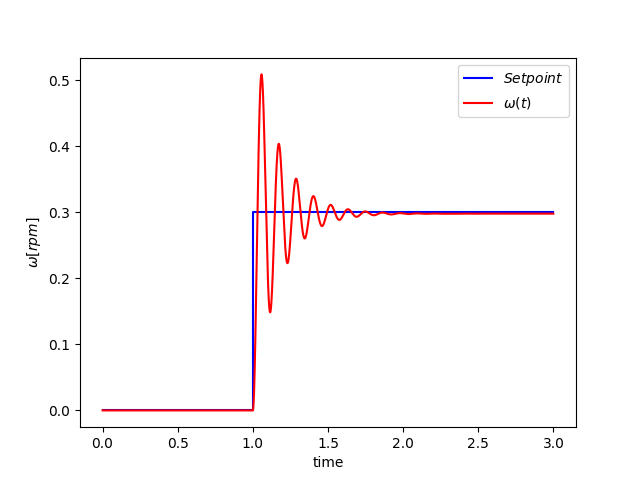
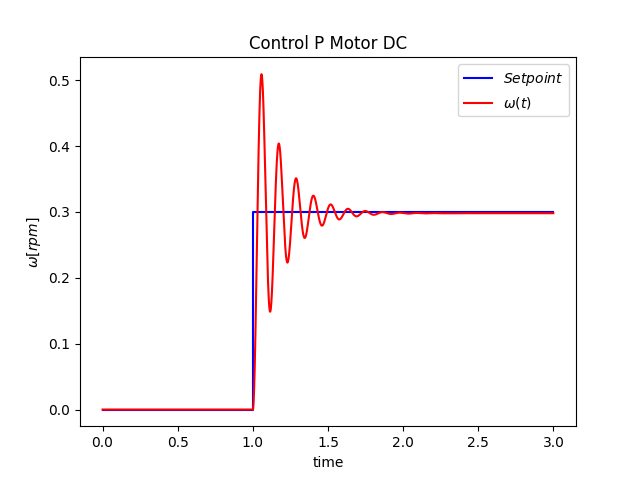
update

diff --git a/02-Control-P-MotorDc/Control_PD_MotorDC.py b/02-Control-P-MotorDc/Control_PD_MotorDC.py
@@ -16,7 +16,7 @@ Ka=0.01
 
 # funcion que retorna dx/dt
 
-def motorControlP(x,t,R,L,J,B,Km,Ka,Kp):
+def motorControlP(x,t,R,L,J,B,Km,Ka,Kp,Kd):
     w=x[0]
     i=x[1]
     # Step
@@ -25,9 +25,10 @@ def motorControlP(x,t,R,L,J,B,Km,Ka,Kp):
     else:
         ref =0.3
 
-    # Control P
+    # Control PD
     e = ref - w
-    u=Kp*e
+    e_p =-w
+    u=Kp*e+ Kd*e_p
 
     dwdt = (-B/J)*w + (Km/J)*i
     didt =(-R/L)*i - (Ka/L)*w + (1/L)*u
@@ -54,14 +55,16 @@ step = 0.001
 t = np.arange(Tstar,Tstop, step)
 
 # ganacia de control P
-Kp=1500
+Kp=800
+Kd=0.5
 
 # solucion de ODE
-x  = odeint(motorControlP,x0,t,args=(R,L,J,B,Km,Ka,Kp))
+x  = odeint(motorControlP,x0,t,args=(R,L,J,B,Km,Ka,Kp,Kd))
 
 
 
 #plot resultados
+plt.title("Control PD Motor DC")
 plt.plot([0,1,1,3],[0,0,0.3,0.3],'b-',label=r'$Set point$')
 plt.plot(t,x[:,0],'r', label=r'$\omega(t) $')
 

diff --git a/02-Control-P-MotorDc/motorDC.py b/02-Control-P-MotorDc/motorDC.py
@@ -43,7 +43,7 @@ t = np.linspace(0,5)
 x  = odeint(motorDC,x0,t,args=(R,L,J,B,Km,Ka,u))
 
 #plot resultados
-
+plt.title("Step Response Motor Dc")
 plt.plot(t,x[:,0],'b', label=r'$\omega(t) $')
 plt.plot(t,x[:,1],'r', label=r'$i(t) $')
 plt.ylabel('respuesta')

diff --git a/02-Control-P-MotorDc/Control_P_MotorDC.py b/02-Control-P-MotorDc/Control_P_MotorDC.py
@@ -62,6 +62,7 @@ x  = odeint(motorControlP,x0,t,args=(R,L,J,B,Km,Ka,Kp))
 
 
 #plot resultados
+plt.title("Control P Motor DC")
 plt.plot([0,1,1,3],[0,0,0.3,0.3],'b-',label=r'$Set point$')
 plt.plot(t,x[:,0],'r', label=r'$\omega(t) $')
 
